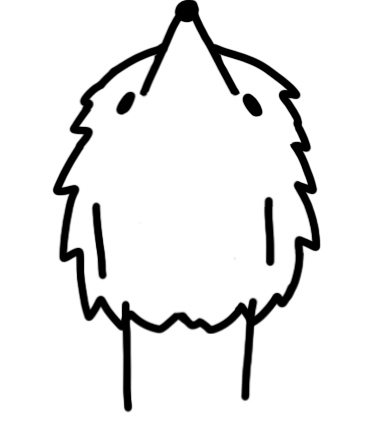
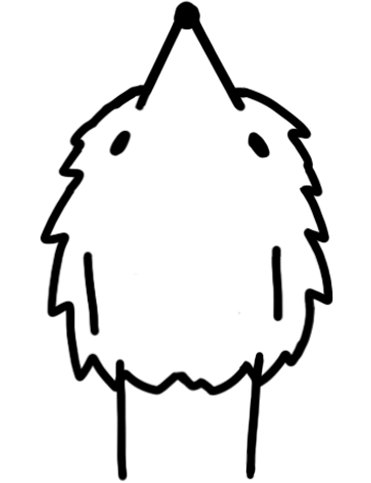
this is great, reworked all positional logic to use self.snchor_x and self.anchor_y. sprites scale well, the pet can hang, drag_offset works, there is a hitbox separate from sprite size, life is great

Changed region(s): [[0.0889, 0.0, 0.9191, 0.9955]]

diff --git a/pet.py b/pet.py
@@ -359,22 +359,24 @@ class Pet(QWidget): # main logic
         self.variables = VariableManager(VARIABLES)
         self.mover = Mover()
 
+
         self.hitbox_width = 0
         self.hitbox_height = 0
         
+        self.anchor_x = 500
+        self.anchor_y = 500
         screen = QApplication.primaryScreen() # Screen detection
         self.taskbar_top = screen.availableGeometry().bottom() # Taskbar position detection
-        self.mover.set_position(100, self.taskbar_top - 800 + 1) # set initial position
+        self.mover.set_position(100, self.taskbar_top + 1) # set initial position
 
         self.dpi_scale = self.devicePixelRatioF()
         self.pixel_ratio = RENDER_CONFIG["pixel_ratio"]
-        self.mover.drag_offset = Vec2(self.hitbox_width * RENDER_CONFIG["drag_offset_x"], self.hitbox_height * RENDER_CONFIG["drag_offset_x"])
 
         self.state_machine = StateMachine(pet=self, configs=STATES, initial="IDLE") # set initial state
 
         self.click_detector = ClickDetector(state_machine=self.state_machine) #initialising ClickDetector
 
-        self.update_hitbox_size() # initial hitbox update
+        self.update_hitbox_size_and_drag_offset() # initial hitbox update
 
         # Timer for updating logic
         self.timer = QTimer()
@@ -407,14 +409,14 @@ class Pet(QWidget): # main logic
             case BehaviourStates.MOVING_RANDOM:
                 screen = QApplication.primaryScreen().geometry()
                 target_x = random.randint(0, screen.width() - round(self.hitbox_width))
-                self.mover.set_position(self.x(), self.y())
-                self.mover.move_to(target_x, self.y(), MovementType.LERP)
+                self.mover.set_position(self.anchor_x, self.anchor_y)
+                self.mover.move_to(target_x, self.anchor_y, MovementType.LERP)
             case BehaviourStates.DRAGGING:
                 pos = Vec2(self.click_detector.press_pos.x(), self.click_detector.press_pos.y())
                 self.mover.begin_drag(pos)
                 self.state_machine.pulse(Pulse.DRAGGING_STARTED)
             case BehaviourStates.FALLING:
-                self.mover.move_to(self.x(), self.taskbar_top - self.height() + 1, MovementType.ACCELERATING)
+                self.mover.move_to(self.anchor_x, self.taskbar_top + 1, MovementType.ACCELERATING)
             
     def on_state_exit(self, state): #just does nothing when the state is done
         pass
@@ -427,7 +429,15 @@ class Pet(QWidget): # main logic
         dt = 1 / 60
 
         arrived = self.mover.update(dt)
-        self.move(int(self.mover.pos.x), int(self.mover.pos.y))
+        # copy anchor from mover (single source of truth)
+        self.anchor_x = self.mover.pos.x
+        self.anchor_y = self.mover.pos.y
+
+        # derive window position
+        self.move(
+            int(self.anchor_x - self.width() / 2),
+            int(self.anchor_y - self.height())
+        )
 
         if arrived:
             self.state_machine.raise_flag(Flag.MOVEMENT_FINISHED)
@@ -447,23 +457,19 @@ class Pet(QWidget): # main logic
         old_h = self.height()
 
         # world-space anchor (bottom-middle)
-        global_anchor_x = old_pos.x() + old_w // 2
-        global_anchor_y = old_pos.y() + old_h
-
-        print("ANCHOR:", global_anchor_x, global_anchor_y)
-        print("WINDOW:", self.pos(), self.size())
-
+        self.anchor_x = old_pos.x() + old_w // 2
+        self.anchor_y = old_pos.y() + old_h
 
         # move window so anchor stays fixed
         self.move(
-            global_anchor_x - new_w // 2,
-            global_anchor_y - new_h
+            self.anchor_x - new_w // 2,
+            self.anchor_y - new_h
         )
-        print("moving in x by ", global_anchor_x - new_w // 2)
+
         # resize
         self.resize(new_w, new_h)
 
-    def update_hitbox_size(self):
+    def update_hitbox_size_and_drag_offset(self):
             frame = self.animator.frame()
             if not frame:
                 return
@@ -475,6 +481,8 @@ class Pet(QWidget): # main logic
 
             # print(self.hitbox_height)
             # print(self.hitbox_width)
+
+            self.mover.drag_offset = Vec2(self.hitbox_width * RENDER_CONFIG["drag_offset_x"], self.hitbox_height * RENDER_CONFIG["drag_offset_y"])
 
 
     def mousePressEvent(self, event):
@@ -497,7 +505,7 @@ class Pet(QWidget): # main logic
         p = QPainter(self)
         p.setRenderHint(QPainter.SmoothPixmapTransform, True)
 
-        p.fillRect(self.rect(), QColor(80, 80, 80))  # dark gray
+        # p.fillRect(self.rect(), QColor(80, 80, 80))  # dark gray
 
         frame = self.animator.frame()
         if not frame:
@@ -528,7 +536,7 @@ class Pet(QWidget): # main logic
         p.drawLine(offset_x, offset_y, anchor_x, anchor_y)
 
         p.scale(scale, scale)
-        # p.drawPixmap(-offset_x, -offset_y, frame)
+        p.drawPixmap(-offset_x, -offset_y, frame)
 
         p.restore()
 

diff --git a/data/states.py b/data/states.py
@@ -20,7 +20,7 @@
 
 STATES = {
     "IDLE": {
-        "animation": "grow",
+        "animation": "idle",
         "fps": 6,
         "behaviour": "STATIONARY",
 
@@ -47,6 +47,13 @@ STATES = {
                 ],
                 "to": "ROLL",
                 "chance": 0.05,
+            },
+            {
+                "when": [ 
+                    {"pulse":"CLICK"}, 
+                    {"var":"worrying_meter", "op":">", "value":50}    
+                    ],
+                "to": "VERY_WORRIED",
             },
             {
                 "when": [ {"pulse":"CLICK"}, ],
@@ -82,7 +89,7 @@ STATES = {
 
     "ROLL": {
         "animation": "roll",
-        "behaviour": "STATIONARY", # HEYYYYYYYYYYYYYYYYYYYY ROOLLL IS STATIONARYY
+        "behaviour": "MOVING_RANDOM",
 
         "on_enter": [
             {"var": "sitting_still_timer", "op": "=", "value": 0},
@@ -115,4 +122,19 @@ STATES = {
         "exit_when": ["MOVEMENT_FINISHED"],
         "exit_to": "IDLE"
     },    
+
+    "VERY_WORRIED": {
+        "animation": "grow",
+        "behaviour": "STATIONARY",
+        "on_enter": [
+            {"var": "worrying_meter", "op": "=", "value": 0},
+        ],
+        "transitions":[
+            {
+                "when": ["ANIMATION_FINISHED",],
+                "to": "IDLE",
+                "chance": 0.5,
+            }
+        ],
+    }, 
 }

diff --git a/engine/state_runtime.py b/engine/state_runtime.py
@@ -59,16 +59,6 @@ class StateRuntime:
 
 
     #unified check
-    def has_event(self, event):
-
-        # print("checking if ", event, " is in Flags: ", self.flags, " or Pulses: ", self.pulses)
-        
-        # if Flag.__members__.get(event) in self.flags or Pulse.__members__.get(event) in self.pulses:
-        #     print("yes it has")
-        # else: print("fuck no")
-
-        return Flag.__members__.get(event) in self.flags or Pulse.__members__.get(event) in self.pulses
-
     def _check_condition(self, cond):
         if "flag" in cond:
             return Flag.__members__.get(cond["flag"]) in self.flags
@@ -87,8 +77,6 @@ class StateRuntime:
 
         return Flag.__members__.get(cond) in self.flags or Pulse.__members__.get(cond) in self.pulses   # THIS IS WEIRD I WANNA TRY A BACKUP SYNTAX
 
-        return False
-
 
     def handle_events(self):
         transitions = self.config.get("transitions", [])
@@ -105,7 +93,7 @@ class StateRuntime:
                 return t["to"]   # return the destination state
             
         exit_conditions = self.config.get("exit_when")
-        if exit_conditions and all(self.has_event(event) for event in exit_conditions):
+        if exit_conditions and all(self._check_condition(c) for c in exit_conditions):
             print("exiting state")
             return self.config["exit_to"]
 

diff --git a/data/animations.py b/data/animations.py
@@ -36,7 +36,7 @@ ANIMATIONS = {
     },
 
     "held_by_the_nose": {
-        "folder": "animations/held",
+        "folder": "animations/held_by_the_nose",
         "fps": 12,
         "loop": True,
 
@@ -44,7 +44,7 @@ ANIMATIONS = {
 
     "grow": {
         "folder": "animations/grow",
-        "fps": 8,
+        "fps": 12,
         "loop": True,
 
     },

diff --git a/data/render_config.py b/data/render_config.py
@@ -3,8 +3,8 @@ RENDER_CONFIG = {
 
     "pixel_ratio": 0.2,  #png image pixel/screen pixel ratio
 
-    "drag_offset_x": -0,
-    "drag_offset_y": 0,
+    "drag_offset_x": 0,
+    "drag_offset_y": -1.4,
 
 }
 

diff --git a/data/variables.py b/data/variables.py
@@ -18,5 +18,9 @@ VARIABLES = {
     "energy": {
         "value": 100.0,
         "rate": -0.2
+    },
+    "worrying_meter": {
+        "value": 0,
+        "rate": 2,
     }
 }
